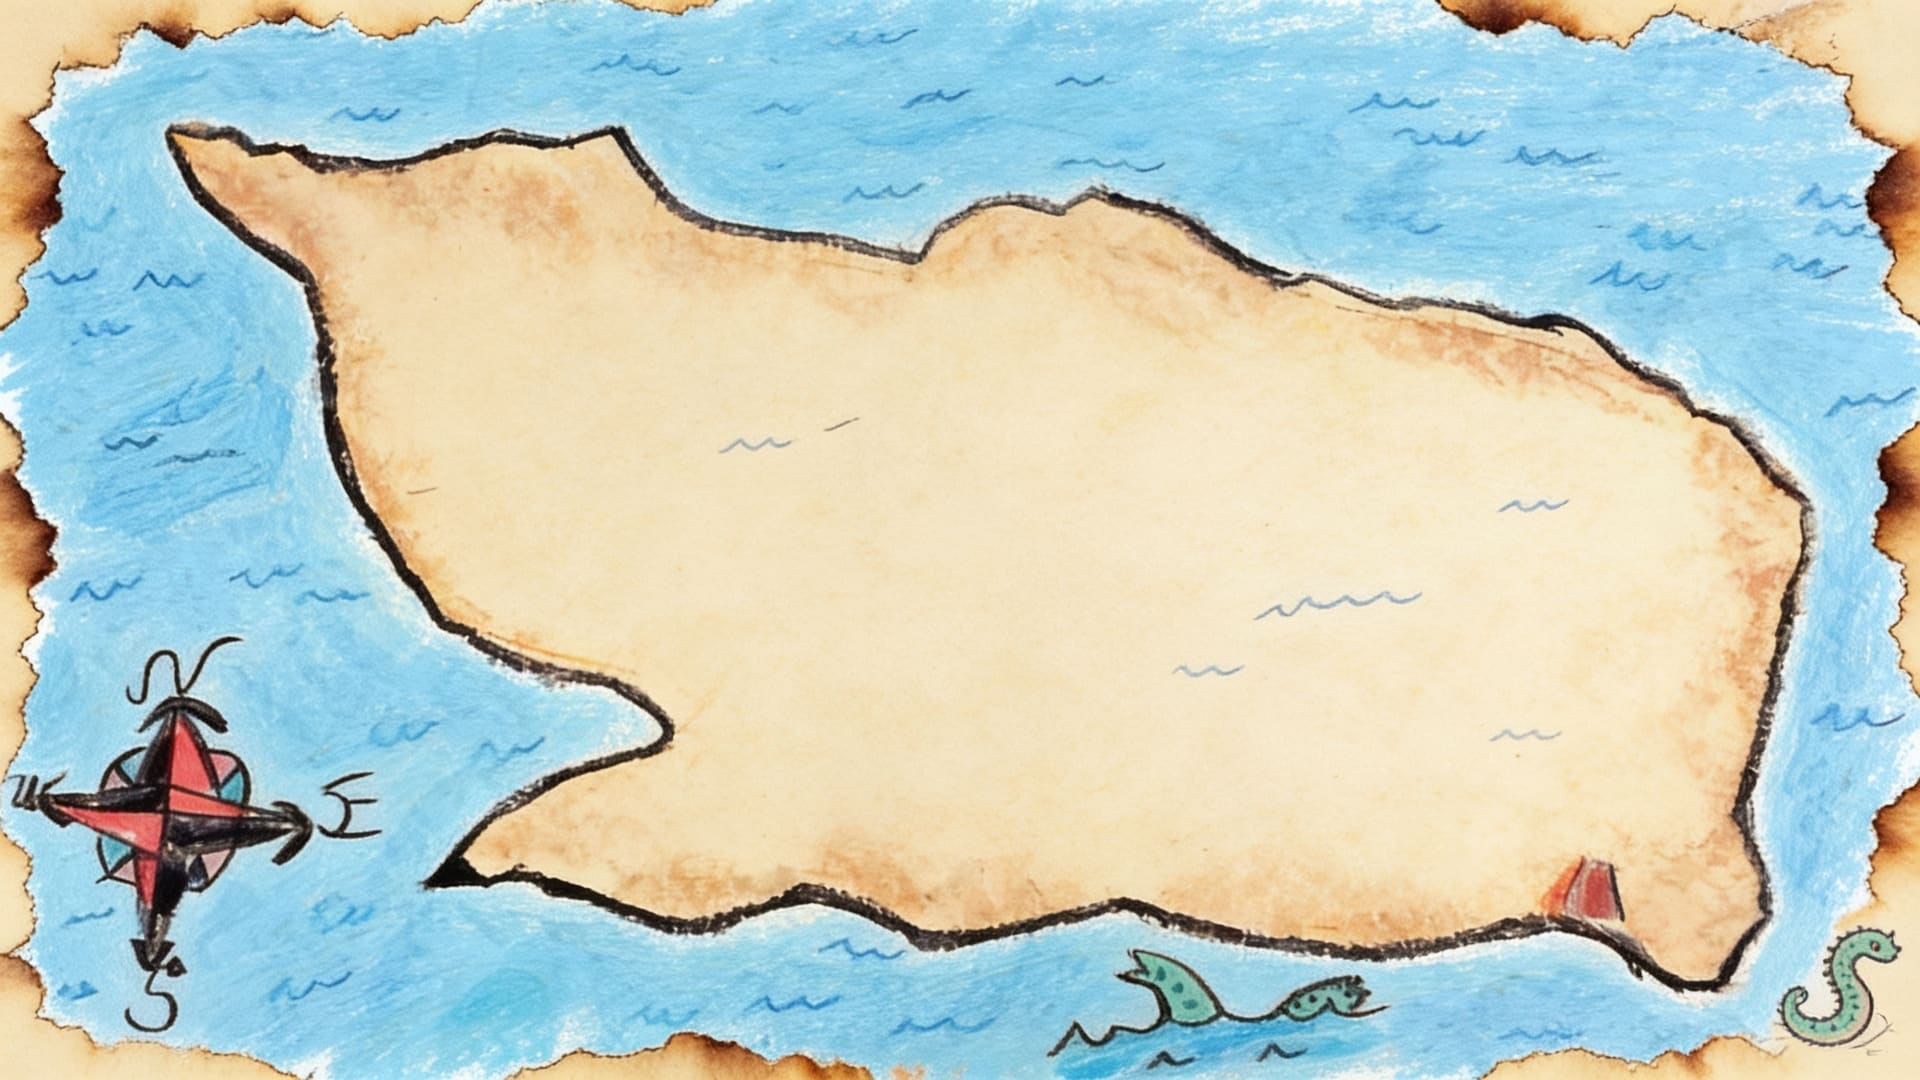
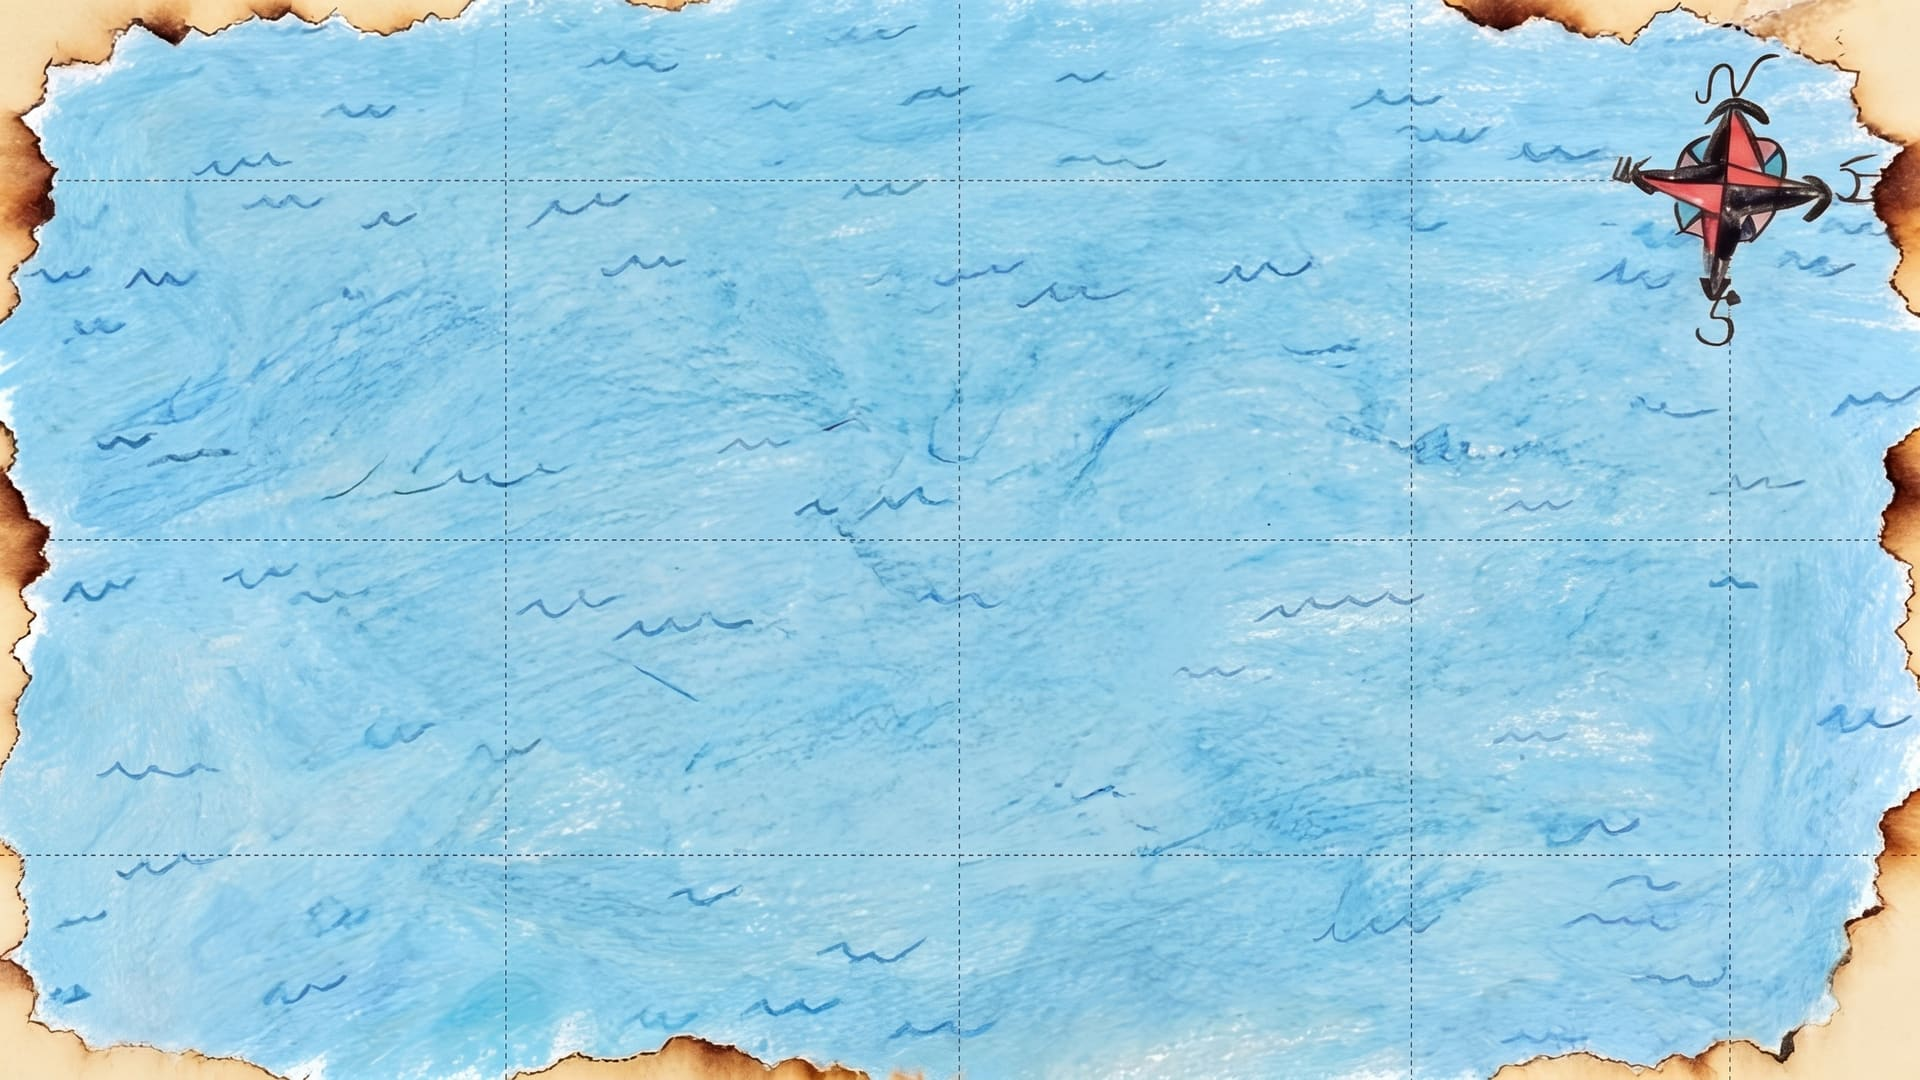
AHOY: open-sea chart, touch controls off the play area, HUD fixes (owner's iPad review)
- New sea chart (Higgsfield, same style as the old one) is all open water: the old
  chart had a continent in the middle, so islands and the ship sat on land.
- Touch buttons are smaller, drawn instead of typed (iOS turned the arrows into
  blue emoji tiles), give press feedback, and all sit on the ground strip so none
  covers the pirate or the play space.
- Level HUD: wider bar so the power name fits; the map piece shows as an outlined
  slot instead of a grey smudge.
- Map: mute button moved off the compass rose; bottom buttons no longer touch;
  single-island seas no longer read '0/0 map pieces'.
- Letterbox bars on 4:3 screens are dark wood instead of navy.
- pirates/test/ahoy-shots.cjs renders every sea map and a touch level at iPad size.

Claude-Session: https://claude.ai/code/session_01GeXHkG4ZuDySxRmVAm4jAQ

diff --git a/pirates/public/js/scene-level.js b/pirates/public/js/scene-level.js
@@ -443,27 +443,53 @@
     // ── Touch controls ──
     makeTouch() {
       this.input.addPointer(3);
-      const btn = (x, y, r, label, key) => {
-        const c = this.add.circle(x, y, r, 0x2b1b12, 0.45).setScrollFactor(0).setDepth(1000).setStrokeStyle(4, 0xffcd77, 0.8).setInteractive();
-        UI.text(this, x, y, label, r * 0.9, "#ffffff").setScrollFactor(0).setDepth(1001);
-        c.on("pointerdown", () => { this.touch[key] = true; if (key === "jump") this.state.jumpBuf = this.time.now + 140; if (key === "attack") this.attack(); if (key === "power") this.usePower(); });
-        const up = () => { this.touch[key] = false; };
-        c.on("pointerup", up); c.on("pointerout", up);
+      // Icons are drawn, not typed: iOS turns ◀ ▶ into blue emoji tiles.
+      const icon = (g, kind, x, y, s) => {
+        g.fillStyle(0xffffff, 0.95).lineStyle(Math.max(4, s * 0.16), 0xffffff, 0.95);
+        if (kind === "left") g.fillTriangle(x - s * 0.5, y, x + s * 0.35, y - s * 0.5, x + s * 0.35, y + s * 0.5);
+        else if (kind === "right") g.fillTriangle(x + s * 0.5, y, x - s * 0.35, y - s * 0.5, x - s * 0.35, y + s * 0.5);
+        else if (kind === "jump") { g.fillTriangle(x, y - s * 0.55, x - s * 0.5, y, x + s * 0.5, y); g.fillRect(x - s * 0.17, y - 2, s * 0.34, s * 0.5); }
+        else if (kind === "duck") g.fillTriangle(x, y + s * 0.4, x - s * 0.5, y - s * 0.3, x + s * 0.5, y - s * 0.3);
+        else if (kind === "attack") { // two crossed cutlasses, hilts at the bottom
+          const k = Math.SQRT1_2;
+          [-1, 1].forEach((d) => {
+            const hx = x + d * s * 0.42, hy = y + s * 0.42; // hilt
+            g.lineBetween(hx, hy, x - d * s * 0.48, y - s * 0.48); // blade
+            const gx = hx - d * k * s * 0.2, gy = hy - k * s * 0.2; // guard sits across the blade, just above the hilt
+            g.lineBetween(gx - k * s * 0.18, gy + d * k * s * 0.18, gx + k * s * 0.18, gy - d * k * s * 0.18);
+          });
+        } else if (kind === "power") {
+          const pts = []; for (let i = 0; i < 10; i++) { const a = -Math.PI / 2 + i * Math.PI / 5, rr = i % 2 ? s * 0.24 : s * 0.55; pts.push(new Phaser.Geom.Point(x + Math.cos(a) * rr, y + Math.sin(a) * rr)); }
+          g.fillPoints(pts, true);
+        }
       };
-      btn(95, 630, 62, "◀", "left"); btn(245, 630, 62, "▶", "right"); btn(170, 520, 44, "▼", "duck");
-      btn(1180, 620, 70, "⤒", "jump"); btn(1035, 655, 54, "⚔", "attack"); btn(1060, 515, 50, "★", "power");
+      const btn = (x, y, r, key) => {
+        const c = this.add.circle(x, y, r, 0x2b1b12, 0.42).setScrollFactor(0).setDepth(1000).setStrokeStyle(3, 0xffcd77, 0.75).setInteractive();
+        const g = this.add.graphics().setScrollFactor(0).setDepth(1001); icon(g, key, x, y, r * 0.95);
+        const down = () => {
+          this.touch[key] = true; c.setFillStyle(0xffcd77, 0.45);
+          if (key === "jump") this.state.jumpBuf = this.time.now + 140; if (key === "attack") this.attack(); if (key === "power") this.usePower();
+        };
+        const up = () => { this.touch[key] = false; c.setFillStyle(0x2b1b12, 0.42); };
+        c.on("pointerdown", down); c.on("pointerup", up); c.on("pointerout", up); c.on("pointerupoutside", up);
+      };
+      // Every button sits on the ground strip (below GY), so none of them cover the play space.
+      btn(80, 660, 46, "left"); btn(190, 660, 46, "right"); btn(296, 668, 34, "duck");
+      btn(1206, 654, 50, "jump"); btn(1096, 672, 38, "attack"); btn(990, 676, 34, "power");
     }
 
     // ── HUD ──
     makeHud() {
       const d = 900;
-      const bar = this.add.graphics().setScrollFactor(0).setDepth(d); bar.fillStyle(0x2b1b12, 0.75).fillRoundedRect(12, 10, 470, 64, 14);
+      const bar = this.add.graphics().setScrollFactor(0).setDepth(d); bar.fillStyle(0x2b1b12, 0.75).fillRoundedRect(12, 10, 560, 64, 14);
       this.hearts = [0, 1, 2].map((i) => this.add.image(46 + i * 46, 42, "item-heart").setScale(0.24).setScrollFactor(0).setDepth(d + 1));
       this.add.image(200, 42, "item-coin").setScale(0.24).setScrollFactor(0).setDepth(d + 1);
       this.coinText = UI.text(this, 226, 42, "0", 36, "#ffcd77", { ox: 0 }).setScrollFactor(0).setDepth(d + 1);
-      this.hudPiece = this.add.image(330, 42, "item-map-piece").setScale(0.26).setScrollFactor(0).setDepth(d + 1).setAlpha(0.35).setTint(0x555555);
+      // The map-piece slot: an outlined empty slot until this island's piece is found.
+      this.add.graphics().setScrollFactor(0).setDepth(d + 1).lineStyle(2, 0xffcd77, 0.7).strokeRoundedRect(300, 18, 60, 48, 8);
+      this.hudPiece = this.add.image(330, 42, "item-map-piece").setScale(0.22).setScrollFactor(0).setDepth(d + 1).setAlpha(0.3);
       if (AHOY.Save.island(this.isl.id).piece) this.hudPiece.setAlpha(0.8).clearTint();
-      this.powerText = UI.text(this, 420, 42, "★", 34, "#ffffff", { stroke: "#2b1b12", strokeThickness: 5 }).setScrollFactor(0).setDepth(d + 1);
+      this.powerText = UI.text(this, 384, 42, "★", 30, "#ffffff", { stroke: "#2b1b12", strokeThickness: 5, ox: 0 }).setScrollFactor(0).setDepth(d + 1);
       this.secretText = UI.text(this, 640, 30, `Secrets 0/${this.spec.secrets}`, 28, "#ffffff", { stroke: "#2b1b12", strokeThickness: 5 }).setScrollFactor(0).setDepth(d + 1);
       if (this.pirate.portrait) UI.text(this, 640, 60, this.pirate.name + (this.pirate.laser ? " · LASER EYES" : ""), 22, "#ffcd77", { stroke: "#2b1b12", strokeThickness: 4 }).setScrollFactor(0).setDepth(d + 1);
       const pause = UI.text(this, 1170, 40, "❚❚", 36, "#ffffff", { stroke: "#2b1b12", strokeThickness: 6 }).setScrollFactor(0).setDepth(d + 1).setInteractive({ useHandCursor: true });

diff --git a/pirates/public/js/scene-map.js b/pirates/public/js/scene-map.js
@@ -66,7 +66,7 @@
       this.tweens.add({ targets: this.ship, y: this.ship.y - 8, angle: 3, duration: 1100, yoyo: true, repeat: -1, ease: "Sine.inOut" });
 
       this.drawHud();
-      UI.muteButton(this, 1238, 92);
+      UI.muteButton(this, 52, 104); // top-left: the chart's compass rose sits top-right
 
       if (this.data0.arrived != null) this.time.delayedCall(350, () => this.landPrompt(this.data0.arrived));
       else if (this.data0.first) this.toast("Click an island to sail there. Each island hides a piece of the map!");
@@ -109,14 +109,14 @@
       const pieces = this.sea.islands.filter((x) => !x.treasure);
       const got = pieces.filter((x) => AHOY.Save.island(x.id).piece).length;
       this.add.image(250, 658, "item-map-piece").setScale(0.32);
-      UI.text(this, 280, 658, `${got}/${pieces.length} map pieces`, 32, "#ffffff", { ox: 0 });
+      UI.text(this, 280, 658, pieces.length ? `${got}/${pieces.length} map pieces` : "One island, one treasure", 32, "#ffffff", { ox: 0 });
       const p = AHOY.currentPirate();
       const portrait = this.add.image(1180, 640, p.portrait && this.textures.exists(p.portrait) ? p.portrait : p.sprite);
       portrait.setScale(110 / Math.max(portrait.width, portrait.height));
       UI.text(this, 1180, 704, p.name.length > 18 ? p.name.slice(0, 17) + "…" : p.name, 24, "#ffffff", { stroke: "#2b1b12", strokeThickness: 4 });
-      UI.button(this, 1010, 660, "CREW", () => UI.fadeTo(this, "Select"), { w: 150, h: 54, size: 30 });
-      UI.button(this, 850, 660, "HOLDERS", () => AHOY.HolderPanel.open(this, () => this.scene.restart({ sea: this.seaIdx })), { w: 170, h: 54, size: 30 });
-      UI.button(this, 680, 660, "TITLE", () => UI.fadeTo(this, "Title"), { w: 140, h: 54, size: 30 });
+      UI.button(this, 1000, 660, "CREW", () => UI.fadeTo(this, "Select"), { w: 150, h: 54, size: 30 });
+      UI.button(this, 828, 660, "HOLDERS", () => AHOY.HolderPanel.open(this, () => this.scene.restart({ sea: this.seaIdx })), { w: 170, h: 54, size: 30 });
+      UI.button(this, 660, 660, "TITLE", () => UI.fadeTo(this, "Title"), { w: 140, h: 54, size: 30 });
     }
 
     toast(msg) {

diff --git a/pirates/public/index.html b/pirates/public/index.html
@@ -12,7 +12,7 @@
   /* Self-hosted (SIL Open Font License): Pirata One for titles, Just Another Hand for UI — the latter is the font on pumpfunpirates.com. */
   @font-face { font-family: 'Pirata One'; src: url(assets/fonts/pirata-one.woff2) format('woff2'); font-display: swap; }
   @font-face { font-family: 'Just Another Hand'; src: url(assets/fonts/just-another-hand.woff2) format('woff2'); font-display: swap; }
-  html, body { margin: 0; height: 100%; background: #12303d; overflow: hidden; touch-action: none; -webkit-user-select: none; user-select: none; }
+  html, body { margin: 0; height: 100%; background: #2b1b12 radial-gradient(ellipse at center, #4a2f1f 0%, #2b1b12 70%); overflow: hidden; touch-action: none; -webkit-user-select: none; user-select: none; }
   #game { position: fixed; inset: 0; display: flex; align-items: center; justify-content: center; }
   #loading { position: fixed; inset: 0; display: flex; align-items: center; justify-content: center; color: #ffcd77; font: 42px 'Pirata One', Georgia, serif; text-align: center; }
   #rotate { display: none; position: fixed; inset: 0; z-index: 10; background: #12303d; color: #ffcd77; font: 34px 'Pirata One', Georgia, serif; align-items: center; justify-content: center; text-align: center; padding: 24px; }

diff --git a/docs/AHOY_PIRATES_GAME.md b/docs/AHOY_PIRATES_GAME.md
@@ -58,7 +58,8 @@ API (`pirates/routes.js`, read-only, no transactions):
 ```
 node pirates/tools/build-assets.cjs        # re-download + compress the Higgsfield art (tools/art-sources.json)
 node pirates/test/ahoy-gate-test.cjs       # holder gate: real ed25519 keypair vs a fake chain (15 cases)
-node pirates/test/ahoy-smoke.cjs [--shots dir]   # headless: every scene, mishap and island; no console errors
+node pirates/test/ahoy-smoke.cjs [--shots dir] [--base url]   # headless: every scene, mishap and island; no console errors
+node pirates/test/ahoy-shots.cjs <dir> [w h]     # screenshots of every sea map + a touch level (default iPad 1366x1024)
 node pirates/tools/build-artifact.cjs <dir>      # the shareable preview (inlined scripts, Phaser from cdnjs)
 ```
 
